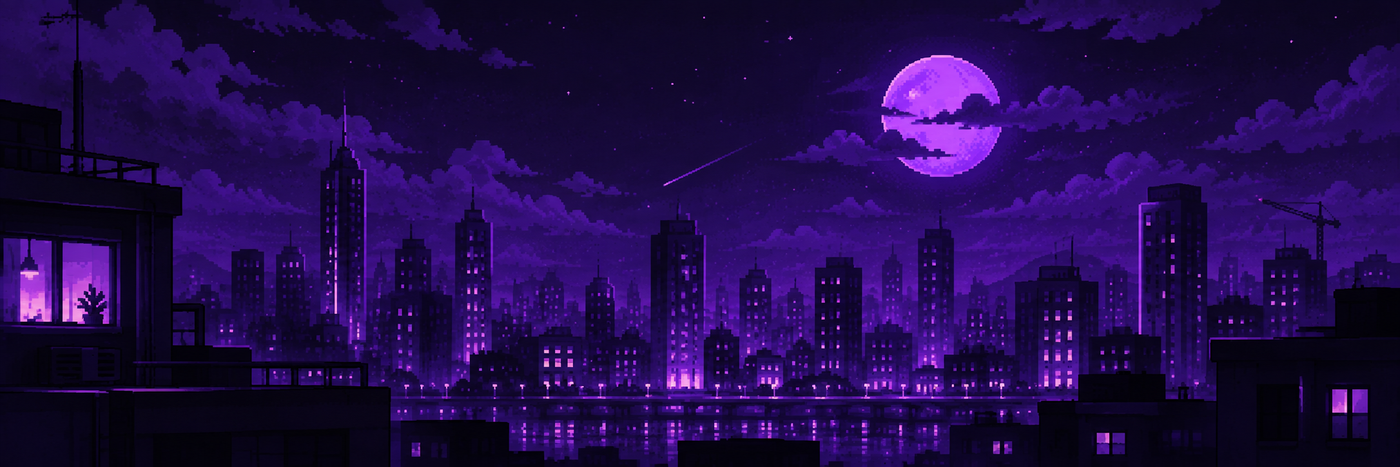
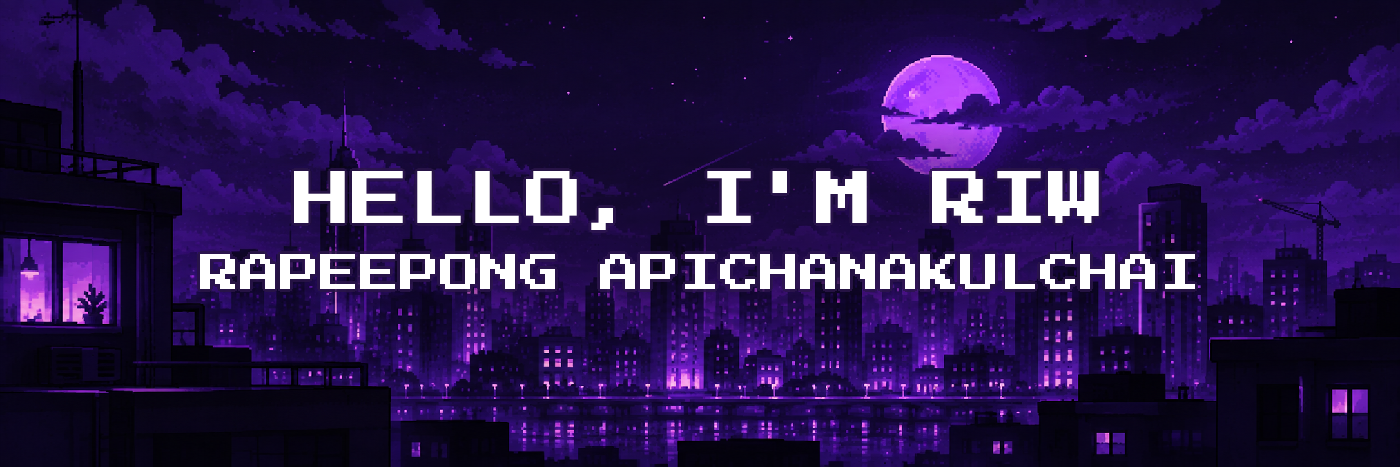
Update README.md with enhanced author section and modify header image

Changed region(s): [[0.1229, 0.2698, 0.86, 0.7195]]

diff --git a/README.md b/README.md
@@ -14,14 +14,11 @@
 
 <div align="center">
 
-### About Me
+### 🎓 About Me
 
-**BANGKOK UNIVERSITY**  
-School of Information Technology and Innovation  
-Computer Science Major
+💼 **BANGKOK UNIVERSITY 【バンコク大学】** 💎  
 
-**Rapeepong Apichanakulchai (Riw)** · **ShiftBOi**  
-Fullstack Developer · Designer · Software Engineer · Bangkok, Thailand
+School of Information Technology and Innovation Computer Science Major
 
 </div>
 
